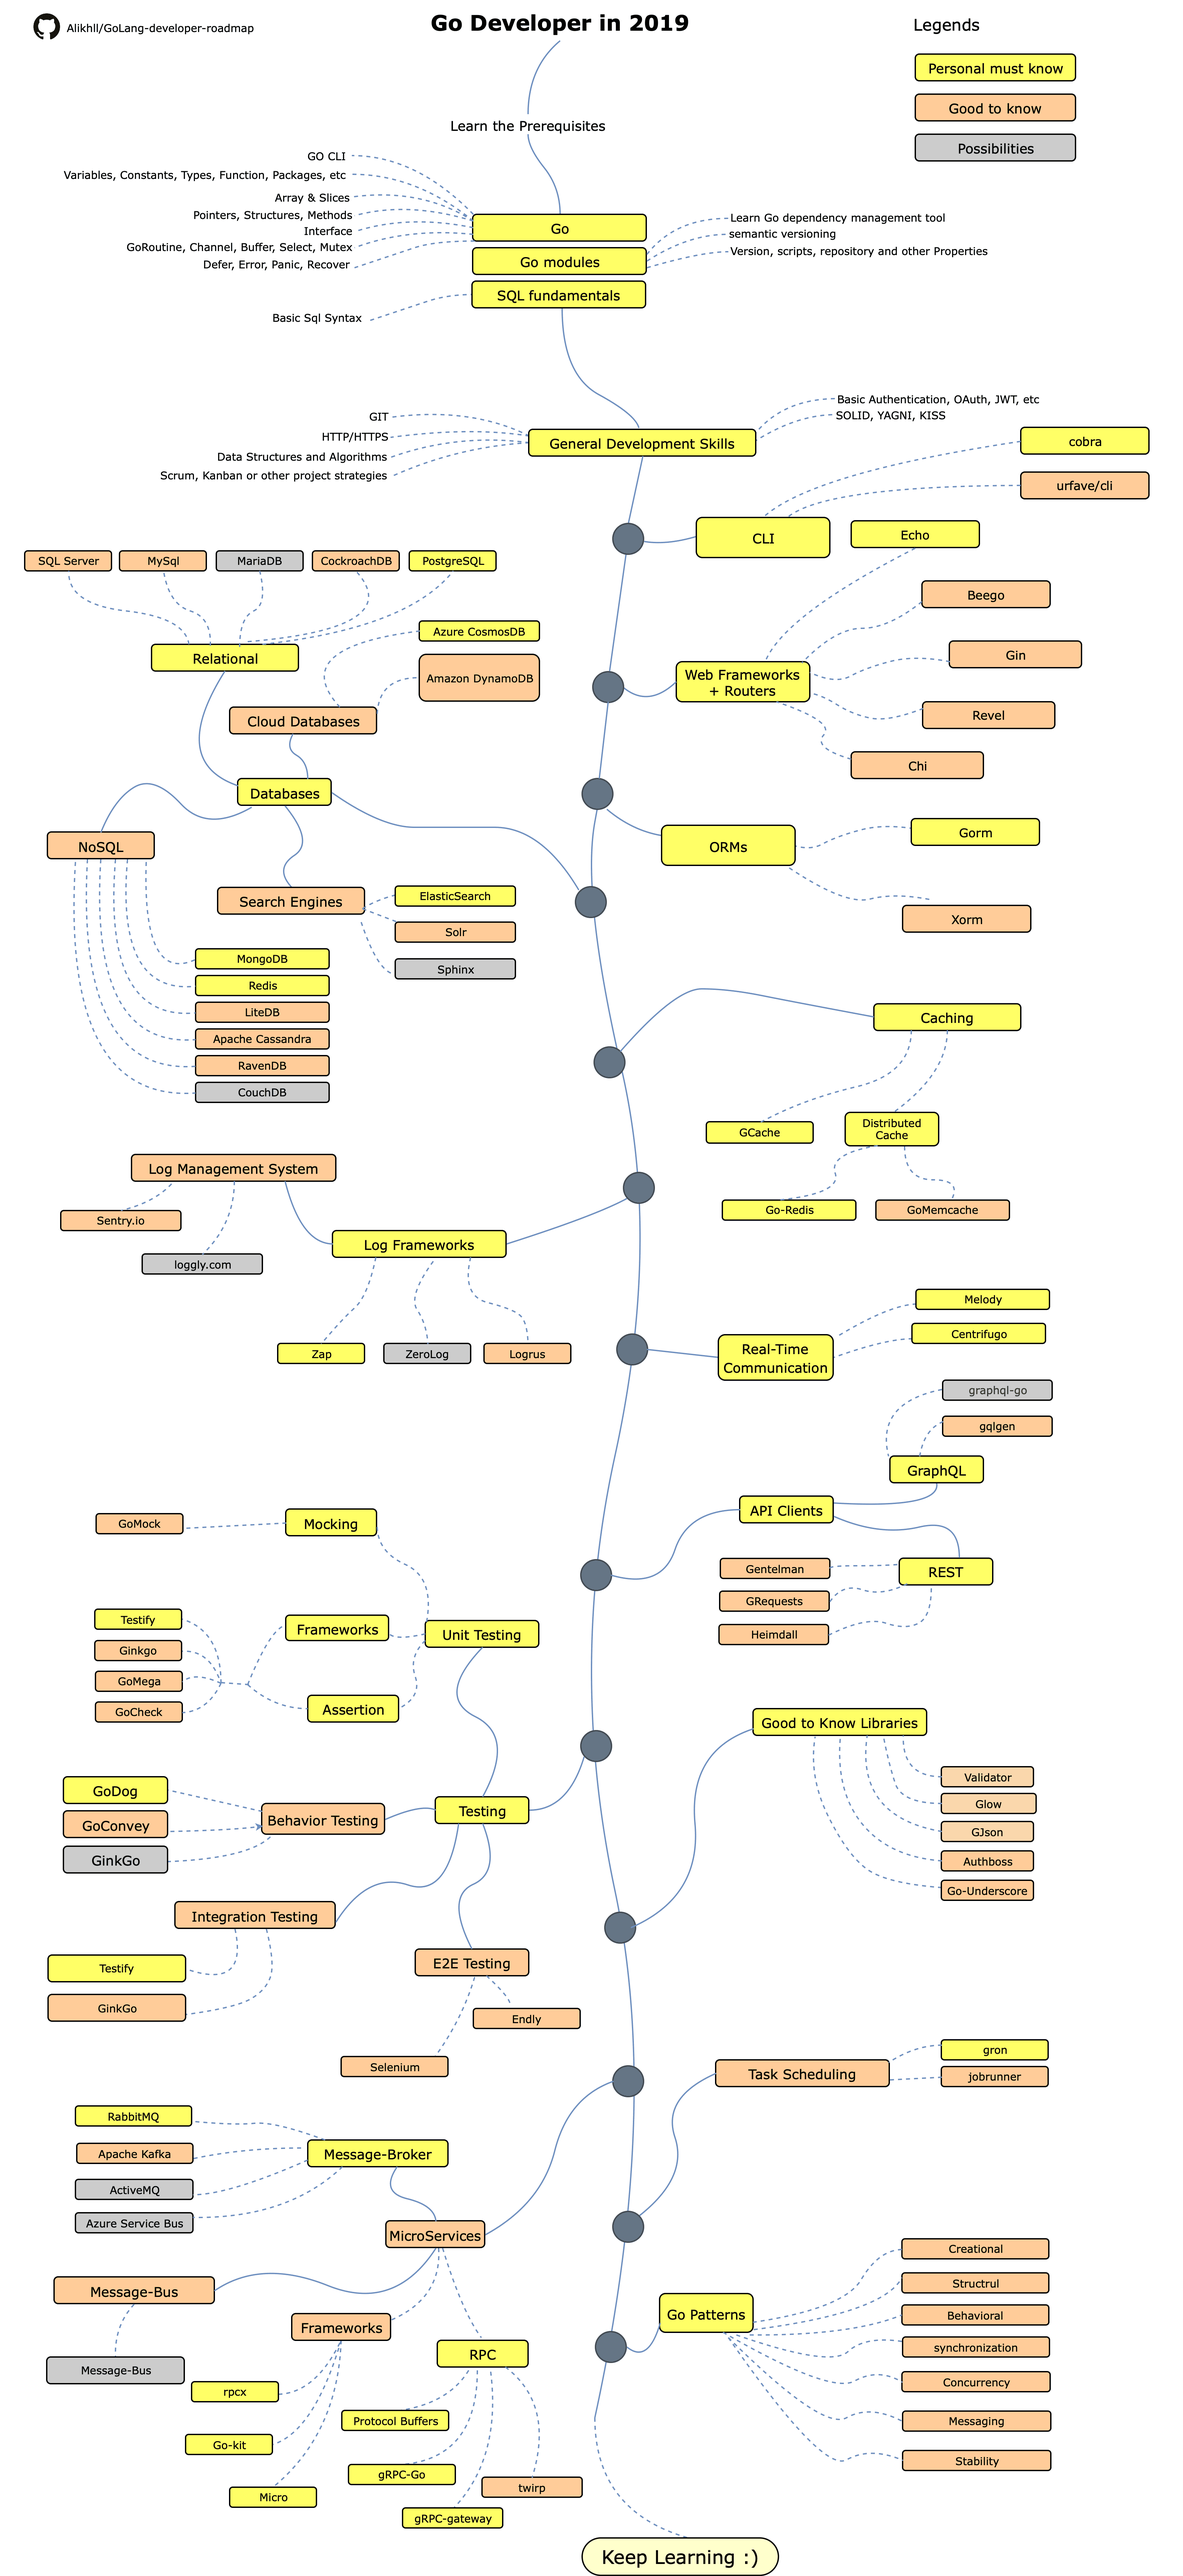
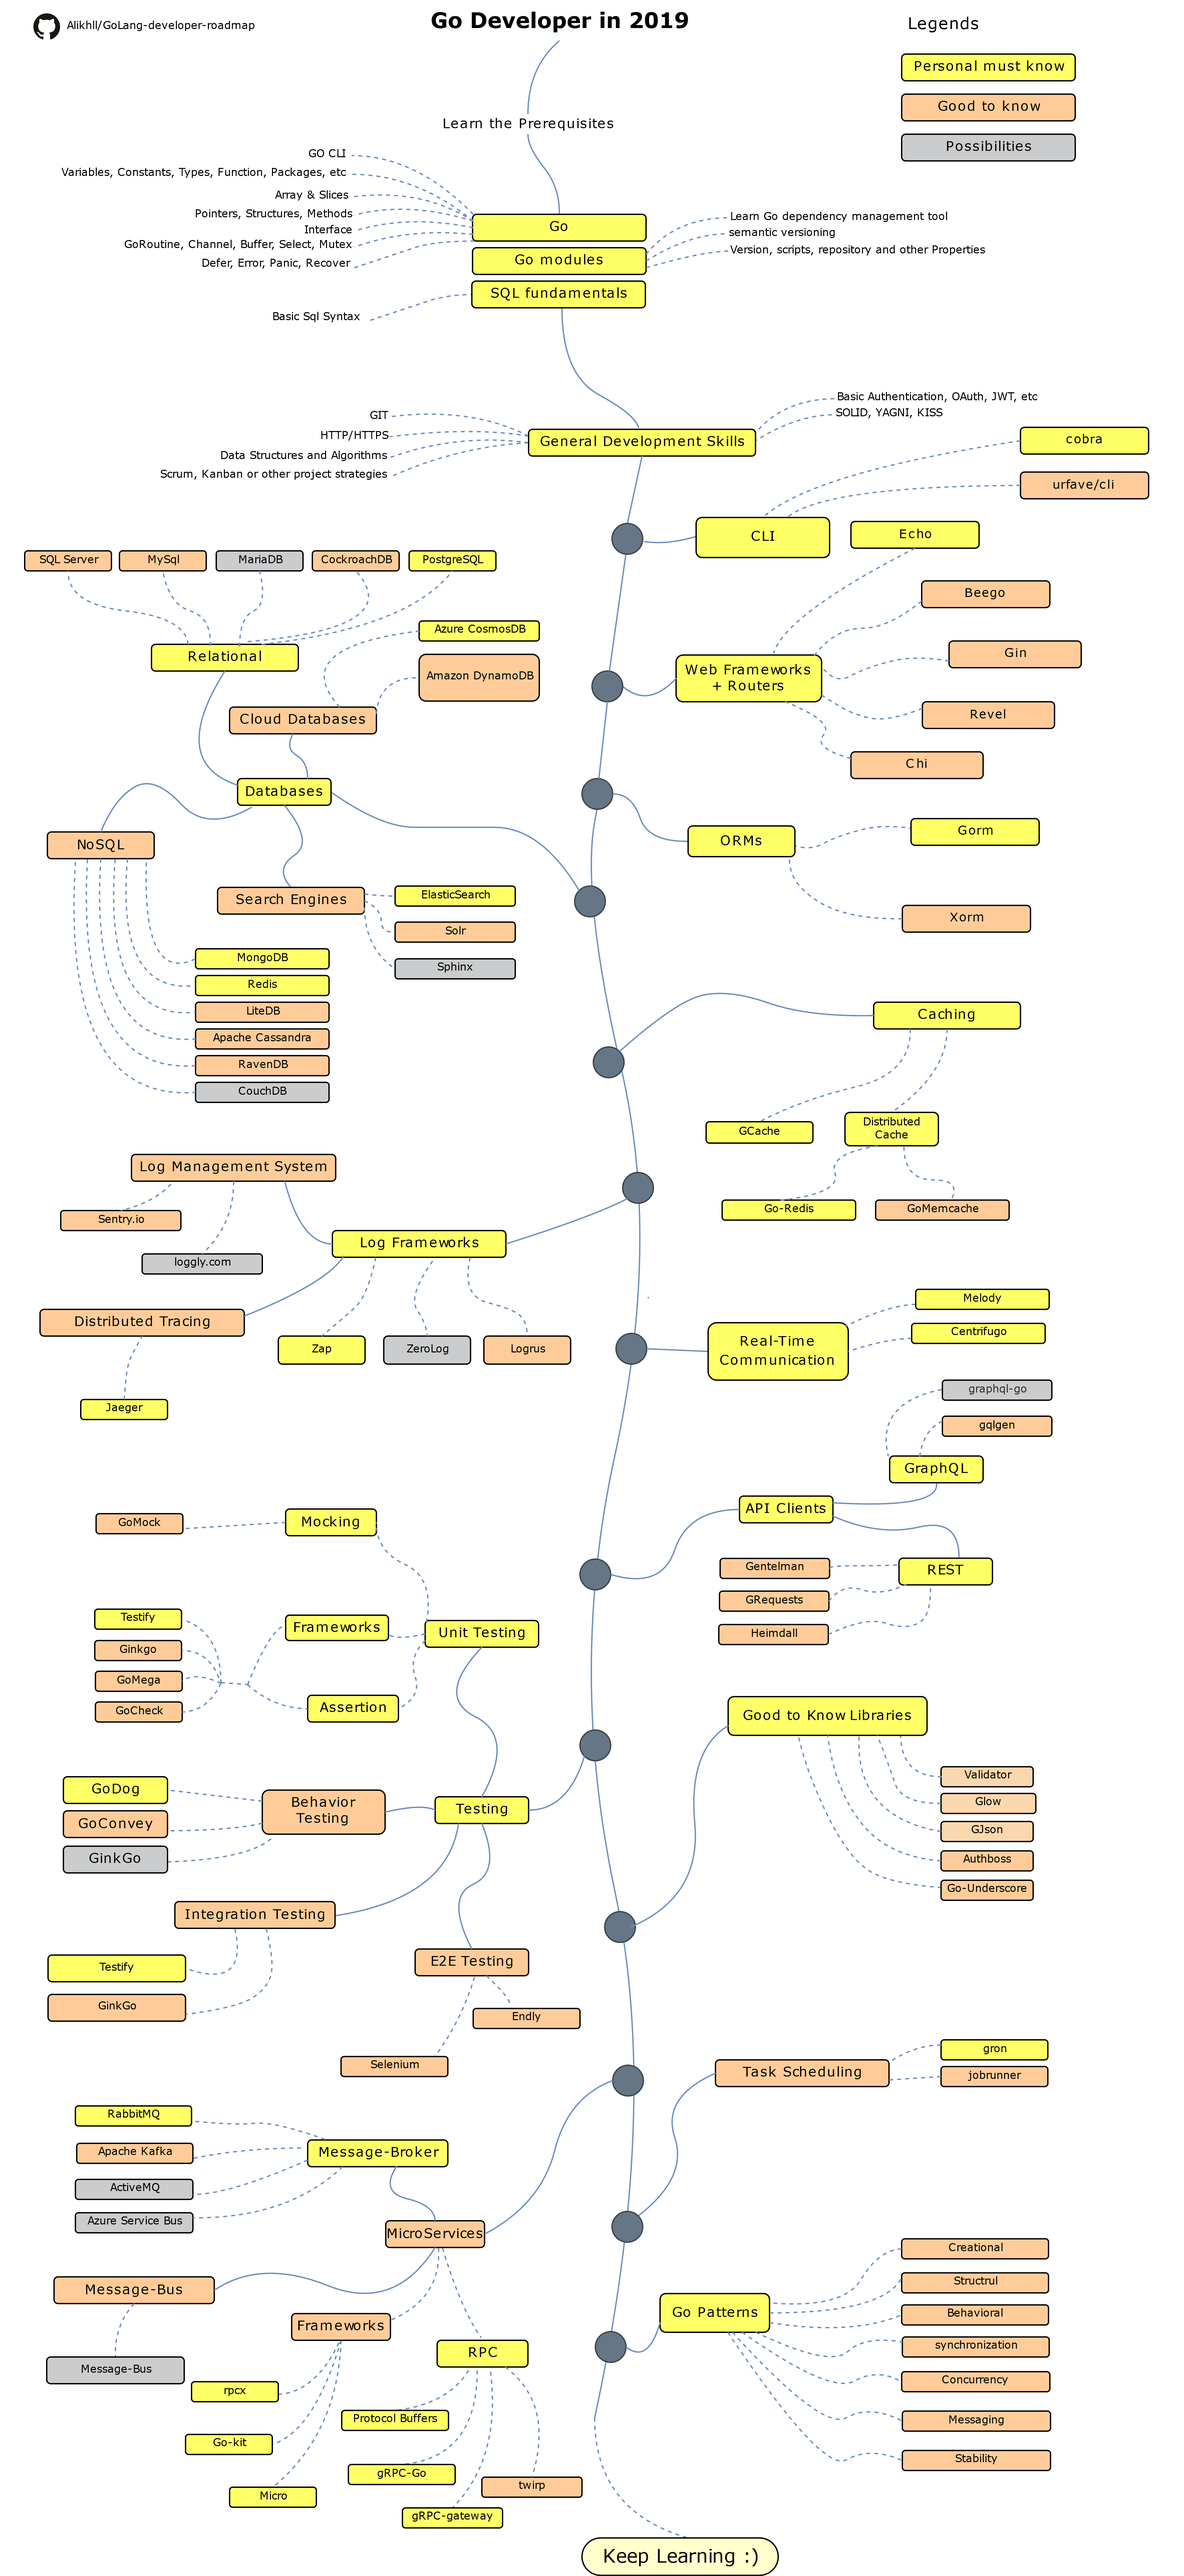
Add Jaeger/distributed tracing in logging

diff --git a/ReadMe.md b/ReadMe.md
@@ -91,6 +91,8 @@ If you like or are using this project to learn or start your solution, please gi
    2. Log Management System
       - [Sentry.io](http://sentry.io)
       - [Loggly.com](https://loggly.com)
+   3. Distributed Tracing
+      - [Jaeger](https://www.jaegertracing.io/)
 
 9. Real-Time Communication
    1. [Socket.IO](https://socket.io/)
